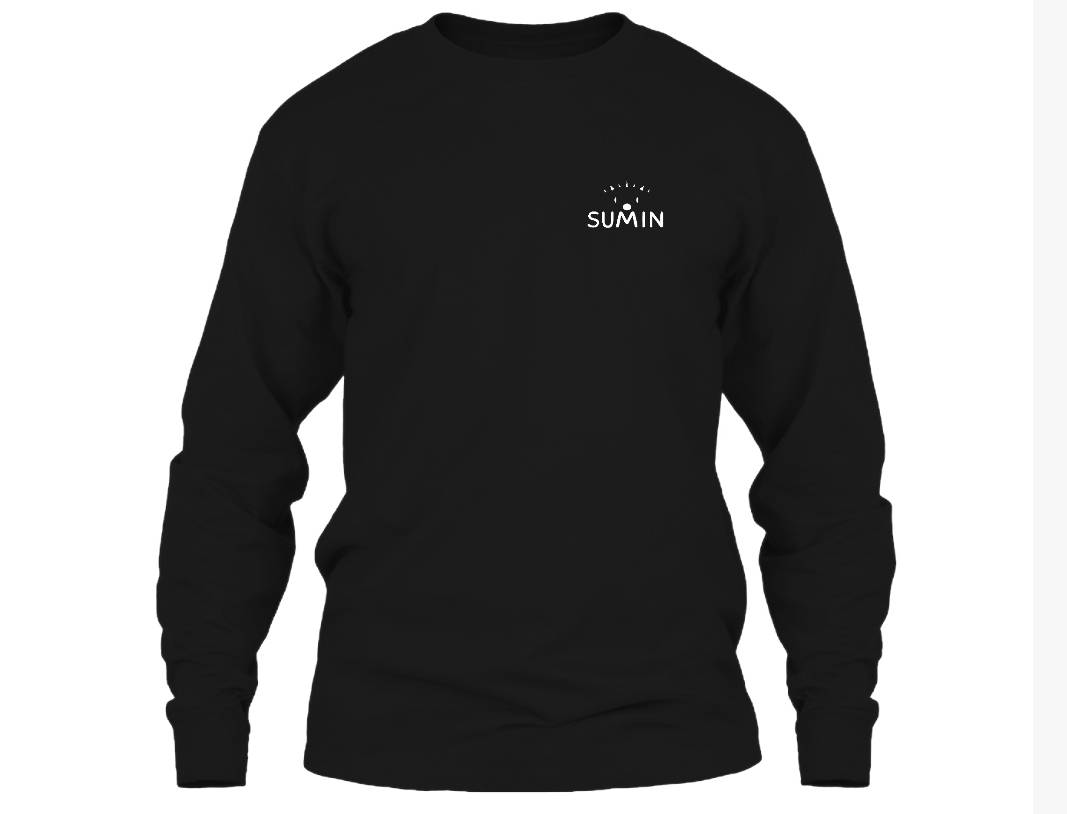
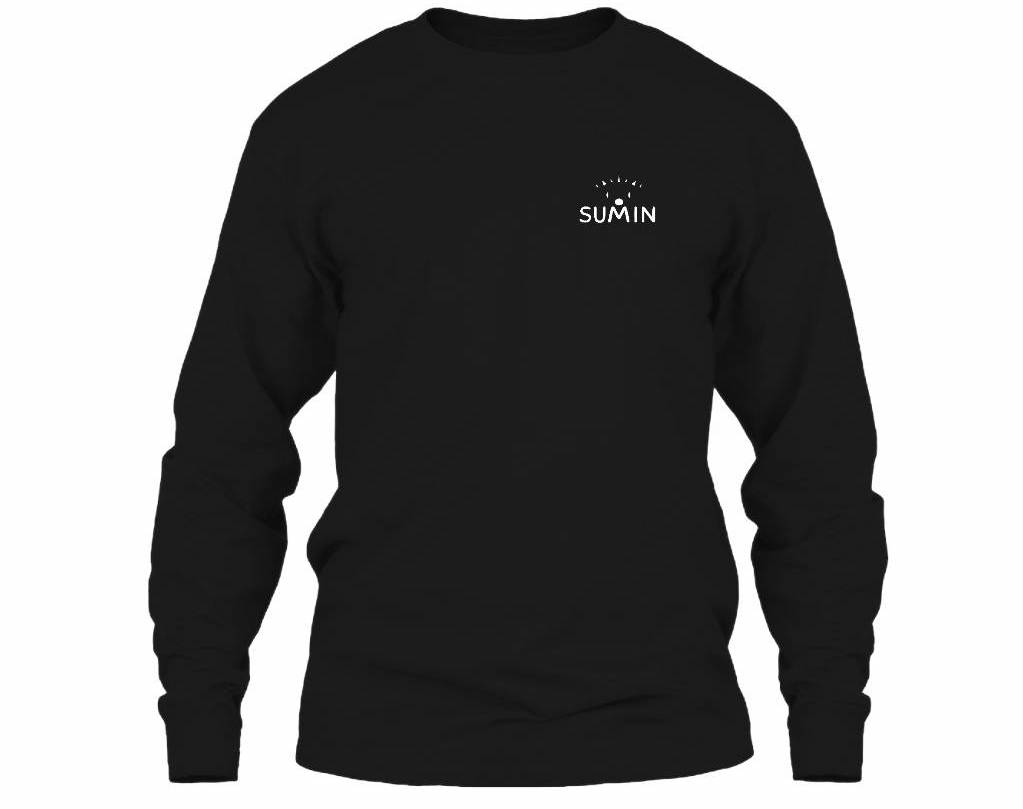
add new model pic

diff --git a/index.html b/index.html
@@ -114,7 +114,7 @@
 				   		</div>
 			   		</div>
 			   	</li>
-			   	<li style="background-image: url(images/logo2.png); background-size: contain;">
+			   	<li style="background-image: url(images/sampleBlack.jpg); background-size: contain;">
 			   		<div class="overlay"></div>
 			   		<div class="container-fluid">
 			   			<div class="row">
@@ -131,7 +131,7 @@
 				   		</div>
 			   		</div>
 			   	</li>
-			   	<li style="background-image: url(images/logo3.png); background-size: contain;">
+			   	<li style="background-image: url(images/sampleWhite.jpg); background-size: contain;">
 			   		<div class="overlay"></div>
 			   		<div class="container-fluid">
 			   			<div class="row">
@@ -187,20 +187,21 @@
 				<div class="row">
 					<div class="col-sm-8 offset-sm-2 text-center colorlib-heading">
 						<h2>mens</h2>
+						<p style="font-size: 20px;"><b>男166cm L ピッタリ</b></p>
 					</div>
 				</div>
 				<div class="row row-pb-md text-center">
 					<div class="col-lg-3 mb-4 text-center">
-						<a href="images/test1.JPG" data-lightbox="group"><img src="images/test1.JPG" class="img-fluid" alt="brand img" width="300"></a>
+						<a href="images/demo2.jpg" data-lightbox="group"><img src="images/demo2.jpg" class="img-fluid" alt="brand img" width="300"></a>
 					</div>
 					<div class="col-lg-3 mb-4 text-center">
-						<a href="images/test1.JPG" data-lightbox="group"><img src="images/test1.JPG" class="img-fluid" alt="brand img" width="300"></a>
+						<a href="images/demo4.jpg" data-lightbox="group"><img src="images/demo4.jpg" class="img-fluid" alt="brand img" width="300"></a>
 					</div>
 					<div class="col-lg-3 mb-4 text-center">
-						<a href="images/test1.JPG" data-lightbox="group"><img src="images/test1.JPG" class="img-fluid" alt="brand img" width="300"></a>
+						<a href="images/demo1.jpg" data-lightbox="group"><img src="images/demo1.jpg" class="img-fluid" alt="brand img" width="300"></a>
 					</div>
 					<div class="col-lg-3 mb-4 text-center">
-						<a href="images/test1.JPG" data-lightbox="group"><img src="images/test1.JPG" class="img-fluid" alt="brand img" width="300"></a>
+						<a href="images/demo3.jpg" data-lightbox="group"><img src="images/demo3.jpg" class="img-fluid" alt="brand img" width="300"></a>
 						<!--
 						<div class="product-entry border">
 							<a href="images/test1.JPG" data-lightbox="group"><img src="images/test1.JPG" class="img-fluid" alt="Free html5 bootstrap 4 template" width="300"></a>
@@ -214,20 +215,21 @@
 				<div class="row">
 					<div class="col-sm-8 offset-sm-2 text-center colorlib-heading">
 						<h2>girls</h2>
+						<p style="font-size: 20px;"><b>女157cm L すこし大きめ</b></p>
 					</div>
 				</div>
 				<div class="row row-pb-md text-center">
 					<div class="col-lg-3 mb-4 text-center">
-						<a href="images/test2.JPG" data-lightbox="group"><img src="images/test2.JPG" class="img-fluid" alt="brand img" width="300"></a>
+						<a href="images/demo5.jpg" data-lightbox="group"><img src="images/demo5.jpg" class="img-fluid" alt="brand img" width="300"></a>
 					</div>
 					<div class="col-lg-3 mb-4 text-center">
-						<a href="images/test2.JPG" data-lightbox="group"><img src="images/test2.JPG" class="img-fluid" alt="brand img" width="300"></a>
+						<a href="images/demo7.jpg" data-lightbox="group"><img src="images/demo7.jpg" class="img-fluid" alt="brand img" width="300"></a>
 					</div>
 					<div class="col-lg-3 mb-4 text-center">
-						<a href="images/test2.JPG" data-lightbox="group"><img src="images/test2.JPG" class="img-fluid" alt="brand img" width="300"></a>
+						<a href="images/demo6.jpg" data-lightbox="group"><img src="images/demo6.jpg" class="img-fluid" alt="brand img" width="300"></a>
 					</div>
 					<div class="col-lg-3 mb-4 text-center">
-						<a href="images/test2.JPG" data-lightbox="group"><img src="images/test2.JPG" class="img-fluid" alt="brand img" width="300"></a>
+						<a href="images/demo8.jpg" data-lightbox="group"><img src="images/demo8.jpg" class="img-fluid" alt="brand img" width="300"></a>
 						<!--
 						<div class="product-entry border">
 							<a href="images/test1.JPG" data-lightbox="group"><img src="images/test1.JPG" class="img-fluid" alt="Free html5 bootstrap 4 template" width="300"></a>
